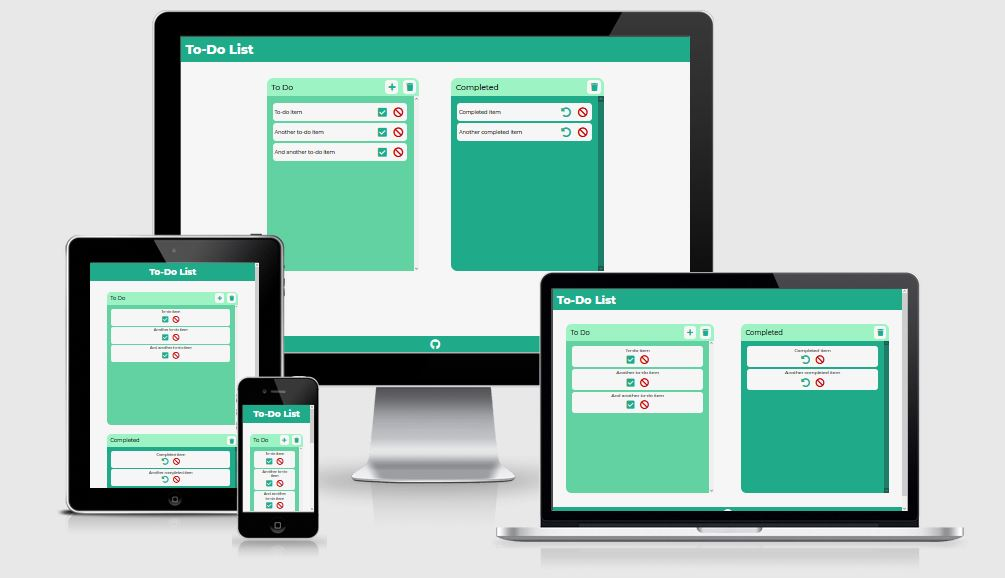
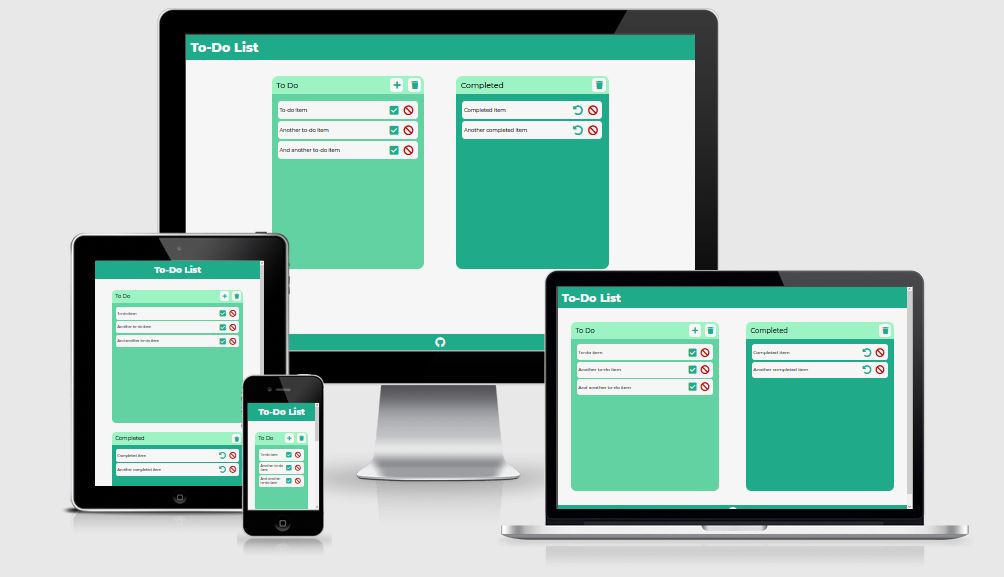
Add device sizes and slight restrucutre to TESTING & update live site image in README

Changed region(s): [[0.0618, 0.0, 0.9572, 0.9359]]

diff --git a/readme/TESTING.md b/readme/TESTING.md
@@ -45,6 +45,8 @@ Google Lighthouse was also used to check the website. [Find the report here](htt
 -   The user wants their previously made notes to persist after leaving the site.
     -   localStorage is used to store user note values and types in the browser for the next time they visit the page. These notes are then added to the appropriate note section on page load.
     -   Every time a feature related to user notes is actioned on the page, localStorage is updated accordingly. For example, if a note is moved to a different section, or if a note is added or deleted.
+    -   Extensive testing was carried out on using localStorage effectively and without error. At first, I began by creating individual keys for each note, with the note content as the value, but this proved ineffective and overly complicated to extract the data in the correct order. I eventually settled on having all the to-do items in one string value and the completed ones in another. I would then split the string into an array and loop through each item.
+    -   Each move of localStorage was tested numerous times, making sure each item was being created, deleted and migrated correctly.
 
 ![Example notes](/readme/images/local-storage-notes.JPG)
 ![Example localStorage](/readme/images/local-storage.JPG)
@@ -54,22 +56,28 @@ Google Lighthouse was also used to check the website. [Find the report here](htt
 
 ![Window sync](/readme/images/sync-example.gif)
 
-## Further Testing
-
--   localStorage testing
-
-    -   Extensive testing was carried out on using localStorage effectively and without error. At first, I began by creating individual keys for each note, with the note content as the value, but this proved ineffective and overly complicated to extract the data in the correct order. I eventually settled on having all the to-do items in one string value and the completed ones in another. I would then split the string into an array and loop through each item.
-    -   Each move of localStorage was tested numerous times, making sure each item was being created, deleted and migrated correctly.
-
--   Character counting
-
+-   The user should be limited on characters and be given feedback about when they're running out.
+    -   As mentioned, as the user types a character, the character counter is instantly changed to reflect the amount of characters they have left to type.
     -   Extra testing was carried out to ensure the character counting feature was implemented correctly. A few changes needed to be made from the initial implementation; it was, at first, restricting the characters using purely JavaScript, but was eventually changed to handle the restriction in HTML and the JavaScript was subsequently only responsible for the counting.
+
+## Further Testing
 
 -   The site was checked in the following browsers:
 
     -   Microsoft Edge
     -   Mozilla Firefox
     -   Google Chrome
+
+-   The site was checked in the Firefox dev tools device emulator on the following devices:
+
+    -   Galaxy S9/S9+
+    -   iPad
+    -   iPhone 6/7/8
+    -   iPhone 6/7/8 Plus
+    -   iPhone X/XS
+    -   Kindle Fire HDX Linux
+    -   Laptop with HiDPI
+    -   Laptop with MDPI
 
 -   The social link was tested and directs to the correct place.
 
@@ -81,6 +89,4 @@ Google Lighthouse was also used to check the website. [Find the report here](htt
 
 There were a few bugs that needed to be solved throughout the development process. As mentioned, issues came up with localStorage; this was the main problem I experienced throughout. As data is stored in strings in localStorage, I had to decide and figure out the most effective and clean way to extract that data to be appropriately represented.
 
-### Existing Bugs
-
-One known issue is that if a user has typed an extremely long string of characters, it can sometimes overflow into the buttons next to the note, if being viewed on a desktop. This is very rare in practice as there are no commonly known/used words that cause this to happen. I have only re-created this bug by typing a single string of random characters with no spaces.
+Another bug that was present was that, occasionally, if a user typed in an extremely long string it would overflow out of the element. This was fixed by using a word-wrap rule in CSS.

diff --git a/README.md b/README.md
@@ -18,6 +18,7 @@ The site is designed to be responsive across all devices, making it easy to use 
 -   The user wants to be able to keep track of their notes by marking/un-marking them as complete.
 -   The user wants their previously made notes to persist after leaving the site.
 -   The user wants to their notes to sync across tabs without having to refresh the page.
+-   The user should be limited on characters and be given feedback about when they're running out.
 
 ### Design
 
